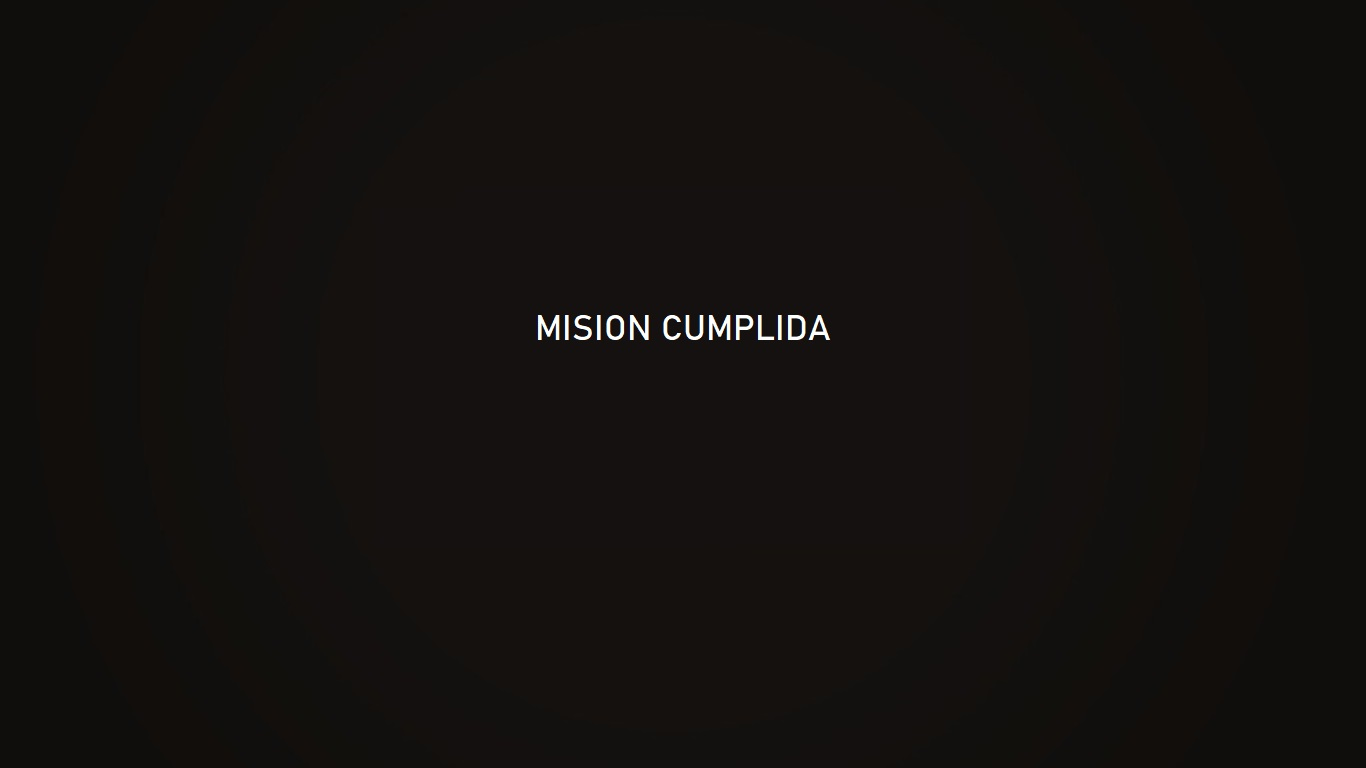
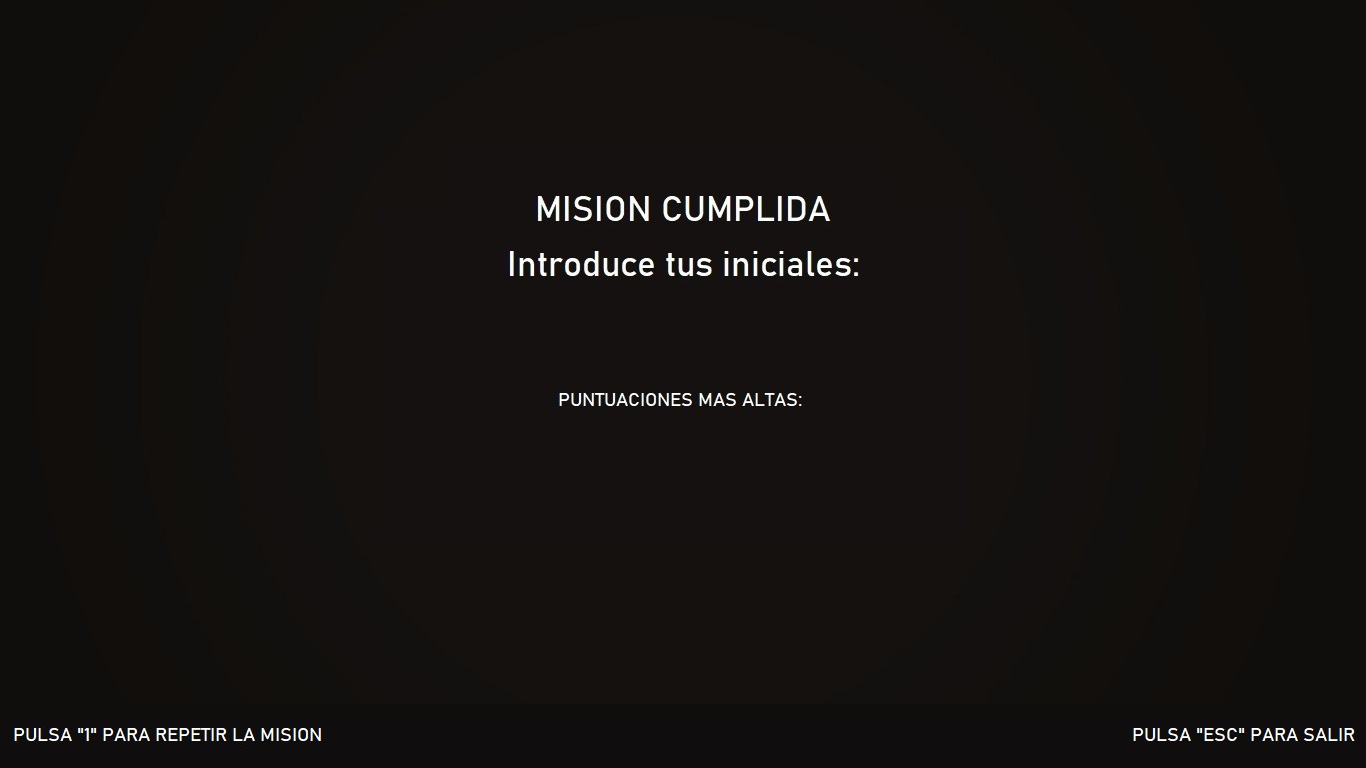
Seguimos

diff --git a/Escape_tierra/entidades.py b/Escape_tierra/entidades.py
@@ -3,6 +3,7 @@ import pygame.locals
 from Escape_tierra import FPS
 import random
 import sys
+import sqlite3
 
 pg.init()
 
@@ -64,6 +65,7 @@ class Nave:
             self.imagen = pg.image.load("recursos/imagenes/Gameover.jpg")
             self.x = 0
             self.y = 0
+            marcador_1 = False
 
 
     def colision_1 (self, algo_1):
@@ -136,10 +138,51 @@ class Game:
         self.asteroide_2 = Asteroide(1366, random.randint(0, 768), -3, 0)
         self.nave = Nave (-5, 384, 0, 10)
         self.marcador = pg.font.Font("recursos/fuente/OpenSans-Bold.ttf", 24)
+
         self.game_over = Game_over (0, 0, 0, 0)
         self.mision_cumplida = Mision_Cumplida (0, 0, 0, 0)
-        self.acero = True
+
+        self.repetir_juego = False
+
+        self.acero = 0
+
         self.clock = pg.time.Clock()
+        self.record = pg.font.Font("recursos/fuente/OpenSans-Bold.ttf", 32)
+        self.record_1 = ""
+
+    def base_de_datos():
+        conn = sqlite3.connect("recursos/data/tabla_records.db")
+        c = conn.cursor()
+        c.execute('SELECT Puntuacion, Iniciales FROM tabla_record;')
+
+    def juego_repetido(self):
+
+        self.pantalla.blit(self.fondo_estrellado.imagen, (self.fondo_estrellado.x, self.fondo_estrellado.y))
+
+        self.pantalla.blit(self.asteroide.imagen, (self.asteroide.x, self.asteroide.y))
+        self.asteroide.x += self.asteroide.vx
+        if self.asteroide.x < -50:
+            self.asteroide = Asteroide(1366, random.randint(0, 768), 0, 0)
+        self.asteroide.vx = self.asteroide.vx -0.05
+
+#        self.pantalla.blit(self.asteroide_1.imagen, (self.asteroide_1.x, self.asteroide_1.y))
+#        self.asteroide_1.x += self.asteroide_1.vx
+#        if self.asteroide_1.x < -50:
+#           self.asteroide_1 = Asteroide(1366, random.randint(0, 768), 0, 0)
+#        self.asteroide_1.vx = self.asteroide_1.vx -0.10
+
+#       self.pantalla.blit(self.asteroide_2.imagen, (self.asteroide_2.x, self.asteroide_2.y))
+#       self.asteroide_2.x += self.asteroide_2.vx
+#       if self.asteroide_2.x < -50:
+#          self.asteroide_2 = Asteroide(1366, random.randint(0, 768), 0, 0)
+#        self.asteroide_2.vx = self.asteroide_2.vx -0.15
+
+        self.pantalla.blit(self.nave.imagen, (self.nave.x, self.nave.y))
+        self.nave.x = -5
+
+        self.acero = 0
+
+        pg.display.flip()
 
     def bucle_pricipal(self):
         cierre = False
@@ -155,21 +198,34 @@ class Game:
                     pg.quit()
                     sys.exit()
 
-                if event.type == pg.KEYUP:
-                    if event.key == pg.K_UP:
-                        self.nave.y -= 25
-                        if self.nave.y <= 0:
-                            self.nave.y = 0
+                teclas_pulsadas = pg.key.get_pressed()
+                if teclas_pulsadas[pygame.locals.K_UP]:
+                    self.nave.y -= 30
+                    if self.nave.y <= 0:
+                        self.nave.y = 0
+
+                if teclas_pulsadas[pygame.locals.K_DOWN]:
+                    self.nave.y += 30
+                    if self.nave.y + 72 >= 768:
+                        self.nave.y = 768 - 72
+
+                if event.type == pg.KEYDOWN: 
+                    if event.key == pygame.K_SPACE:
+                        self.inicio.inicar_juego = True
 
                 if event.type == pg.KEYDOWN:
-                    if event.key == pg.K_DOWN:
-                        self.nave.y += 25
-                        if self.nave.y + 72 >= 768:
-                            self.nave.y = 768 - 72
+                    if event.key == pygame.K_BACKSPACE:
+                        self.record_1 = self.record_1[:-1]
+                    else:
+                        self.record_1 += event.unicode
 
-                if event.type == pg.KEYUP: 
-                    if event.key == pg.K_SPACE:
-                        self.inicio.inicar_juego = True
+                if event.type == pg.KEYDOWN:
+                    if event.key == pygame.K_1:
+                        self.repetir_juego = True
+
+                if event.type == pg.KEYDOWN:
+                    if event.key == pygame.K_ESCAPE:
+                        cierre = True
 
 # Inincio
 
@@ -190,17 +246,17 @@ class Game:
                         self.asteroide = Asteroide(1366, random.randint(0, 768), 0, 0)
                     self.asteroide.vx = self.asteroide.vx -0.05
 
-                    self.pantalla.blit(self.asteroide_1.imagen, (self.asteroide_1.x, self.asteroide_1.y))
-                    self.asteroide_1.x += self.asteroide_1.vx
-                    if self.asteroide_1.x < -50:
-                        self.asteroide_1 = Asteroide(1366, random.randint(0, 768), 0, 0)
-                    self.asteroide_1.vx = self.asteroide_1.vx -0.10
+#                    self.pantalla.blit(self.asteroide_1.imagen, (self.asteroide_1.x, self.asteroide_1.y))
+#                    self.asteroide_1.x += self.asteroide_1.vx
+#                    if self.asteroide_1.x < -50:
+#                        self.asteroide_1 = Asteroide(1366, random.randint(0, 768), 0, 0)
+#                    self.asteroide_1.vx = self.asteroide_1.vx -0.10
 
-                    self.pantalla.blit(self.asteroide_2.imagen, (self.asteroide_2.x, self.asteroide_2.y))
-                    self.asteroide_2.x += self.asteroide_2.vx
-                    if self.asteroide_2.x < -50:
-                        self.asteroide_2 = Asteroide(1366, random.randint(0, 768), 0, 0)
-                    self.asteroide_2.vx = self.asteroide_2.vx -0.15
+#                    self.pantalla.blit(self.asteroide_2.imagen, (self.asteroide_2.x, self.asteroide_2.y))
+#                    self.asteroide_2.x += self.asteroide_2.vx
+#                    if self.asteroide_2.x < -50:
+#                        self.asteroide_2 = Asteroide(1366, random.randint(0, 768), 0, 0)
+#                    self.asteroide_2.vx = self.asteroide_2.vx -0.15
 
                     self.pantalla.blit(self.nave.imagen, (self.nave.x, self.nave.y))
 
@@ -208,22 +264,18 @@ class Game:
                     self.pantalla.blit(puntuacion, (10, 10))
                     self.acero = self.acero +3
 
-#Que pare el contador y me de la opcion de volver al intentarlo
+            self.nave.colision(self.asteroide)
 
-            if self.nave.colision(self.asteroide):
-                self.acero = False
+#            self.nave.colision_1(self.asteroide_1)
 
-            if self.nave.colision_1(self.asteroide_1):
-                self.acero = False
+#            self.nave.colision_2(self.asteroide_2)
 
-            if self.nave.colision_2(self.asteroide_2):
-                self.acero = False
+            if self.acero >= 500:
 
-#Rotacion rotacion de la nave, record y volver a incio
 
-            if self.acero >= 5000:
-                self.acero = 5000
-                self.nave.x += self.nave.vx +3
+                self.acero = 500
+                self.nave.x += self.nave.vx +5
+
                 self.asteroide.vx = 0
                 self.asteroide.x = 2500
                 self.asteroide_1.vx = 0
@@ -231,8 +283,19 @@ class Game:
                 self.asteroide_2.vx = 0
                 self.asteroide_2.x = 2500
 
-            if self.nave.x >= 1366:
+            if self.nave.x >= 930:
+                self.nave.vx = 0
                 self.pantalla.blit(self.mision_cumplida.imagen, (self.mision_cumplida.x, self.mision_cumplida.y))
+
+                tabla_record = self.record.render(str(self.record_1), True, (255,255,255))
+                self.pantalla.blit(tabla_record, (647, 300))
+
+            if self.repetir_juego == True:
+                self.juego_repetido()
+
+                puntuacion = self.marcador.render(str(self.acero), True, (255,255,255))
+                self.pantalla.blit(puntuacion, (10, 10))
+                self.acero = self.acero +3
 
 # Refrescamos 
 

diff --git a/Escape_tierra/game.py b/Escape_tierra/game.py
@@ -1,0 +1,64 @@
+
+
+
+        self.pantalla.blit(self.fondo_estrellado.imagen, (self.fondo_estrellado.x, self.fondo_estrellado.y))
+
+        self.pantalla.blit(self.asteroide.imagen, (self.asteroide.x, self.asteroide.y))
+        self.asteroide.x += self.asteroide.vx
+        if self.asteroide.x < -50:
+            self.asteroide = Asteroide(1366, random.randint(0, 768), 0, 0)
+        self.asteroide.vx = self.asteroide.vx -0.05
+
+#                    self.pantalla.blit(self.asteroide_1.imagen, (self.asteroide_1.x, self.asteroide_1.y))
+#                    self.asteroide_1.x += self.asteroide_1.vx
+#                    if self.asteroide_1.x < -50:
+#                        self.asteroide_1 = Asteroide(1366, random.randint(0, 768), 0, 0)
+#                    self.asteroide_1.vx = self.asteroide_1.vx -0.10
+
+#                    self.pantalla.blit(self.asteroide_2.imagen, (self.asteroide_2.x, self.asteroide_2.y))
+#                    self.asteroide_2.x += self.asteroide_2.vx
+#                    if self.asteroide_2.x < -50:
+#                        self.asteroide_2 = Asteroide(1366, random.randint(0, 768), 0, 0)
+#                    self.asteroide_2.vx = self.asteroide_2.vx -0.15
+
+        self.pantalla.blit(self.nave.imagen, (self.nave.x, self.nave.y))
+
+        puntuacion = self.marcador.render(str(self.acero), True, (255,255,255))
+        self.pantalla.blit(puntuacion, (10, 10))
+        self.acero = self.acero +3
+
+
+# Que me de la opcion de volver al intentarlo
+
+self.nave.colision(self.asteroide)
+
+#            self.nave.colision_1(self.asteroide_1)
+
+#            self.nave.colision_2(self.asteroide_2)
+
+#Hay que meter otra imagen para rotarla por que sino afecta al Game Over, record y volver a incio
+
+if self.acero >= 500:
+
+
+    self.acero = 500
+    self.nave.x += self.nave.vx +5
+
+    self.asteroide.vx = 0
+    self.asteroide.x = 2500
+    self.asteroide_1.vx = 0
+    self.asteroide_1.x = 2500
+    self.asteroide_2.vx = 0
+    self.asteroide_2.x = 2500
+
+#                angulo = 0
+#                angulo = (angulo + 1)%360
+#                self.nave.imagen = pg.transform.rotozoom(self.nave.imagen, 180, 1)
+
+
+if self.nave.x >= 930:
+    self.nave.vx = 0
+    self.pantalla.blit(self.mision_cumplida.imagen, (self.mision_cumplida.x, self.mision_cumplida.y))
+
+    tabla_record = self.record.render(str(self.record_1), True, (255,255,255))
+    self.pantalla.blit(tabla_record, (647, 400))
